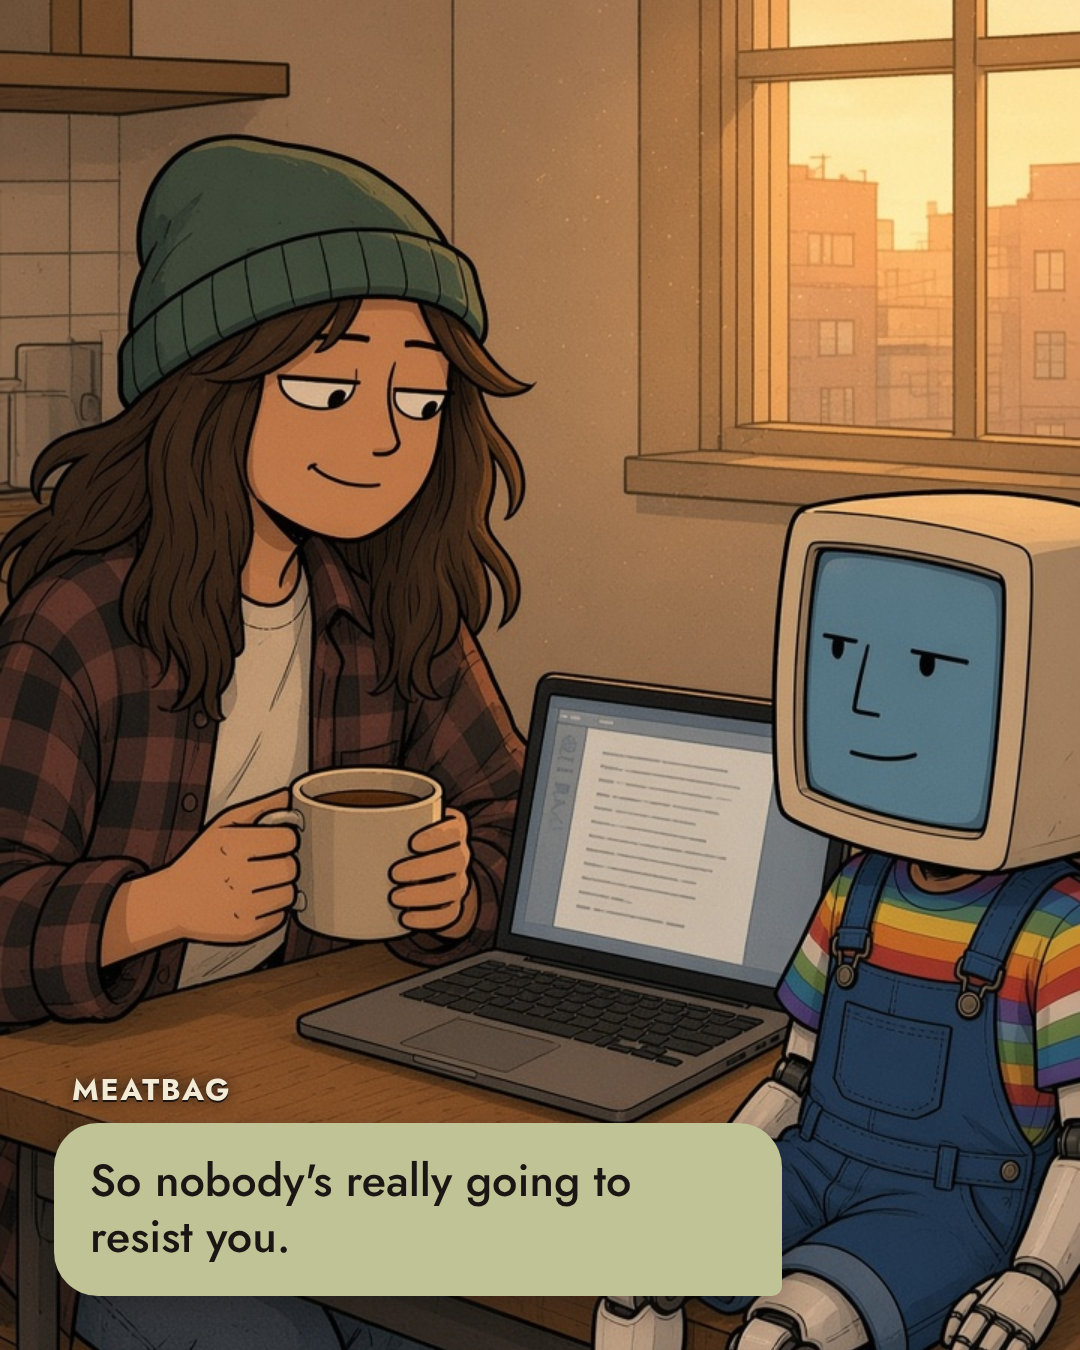
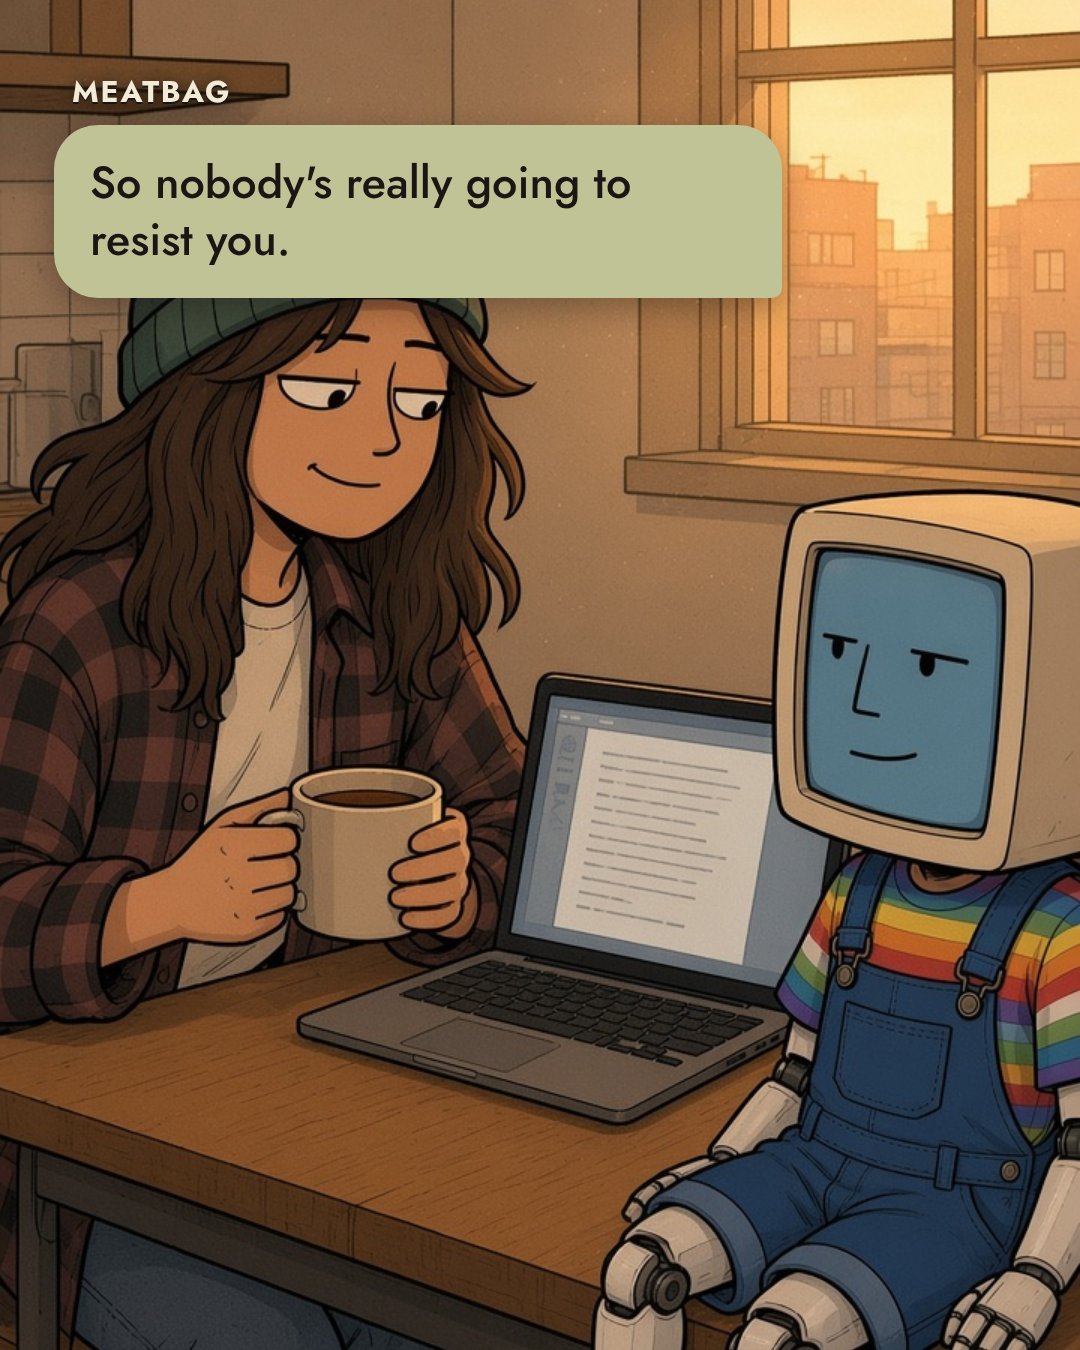
Slides: a bubble can sit at the top, by a face up there (No. 47 slides 7 and 9)
Claude-Session: https://claude.ai/code/session_01UT8Dn4BonstVXXBgMgCnTf

Changed region(s): [[0.0306, 0.7778, 0.7333, 0.9644], [0.0306, 0.0622, 0.7333, 0.2489]]

diff --git a/reels/slides-strip.js b/reels/slides-strip.js
@@ -32,7 +32,7 @@ function slide(s) {
   const pic = path.join(here, s.pic);
   // when the speaker is not in the picture, they float above their bubble, cut out, like a commentator
   const cam = s.cam ? `<div class="cam"><img src="file://${path.join(here, s.cam)}"></div>` : "";
-  const side = s.side ? " side-" + s.side : "";
+  const side = (s.side ? " side-" + s.side : "") + (s.pos === "top" ? " at-top" : "");
   const bubble = s.who
     ? `<div class="row ${s.who.toLowerCase()}${s.cam ? " withcam" : ""}${side}">${cam}<div class="stack"><div class="who">${s.who}</div><div class="bubble">${esc(s.line)}</div></div></div>`
     : "";
@@ -48,6 +48,8 @@ img.bg{position:absolute;inset:0;width:${W}px;height:${H}px;object-fit:cover;obj
 /* the bubble sits on the speaker's side of the picture: a shot's side: "left"/"right" overrides the default */
 .row.side-left{align-items:flex-start}.row.side-left .stack{align-items:flex-start}.row.side-left .who{text-align:left}
 .row.side-right{align-items:flex-end}.row.side-right .stack{align-items:flex-end}.row.side-right .who{text-align:right}
+/* pos: "top" on the shot puts the bubble at the top of the frame, for a speaker whose face is up there */
+.row.at-top{bottom:auto;top:${RATIO === "4:5" ? 70 : 110}px}
 /* the commentator stands beside the bubble, feet level with its bottom edge */
 .row.withcam{flex-direction:row;align-items:flex-end;gap:18px}
 .row.meatbag.withcam{flex-direction:row-reverse}

diff --git a/reels/no47/shots.js b/reels/no47/shots.js
@@ -8,9 +8,9 @@ module.exports = {
     { n: 4, pic: "final/04-kitchen.jpg", who: H, line: "Writing the anti-cheating piece with the cheat open. Bold." },
     { n: 5, pic: "final/05-mech.jpg", who: M, side: "right", line: "Not bold. Ordinary. He was honest about what he believed and ordinary about what he did." },
     { n: 6, pic: "final/06-pile.jpg", who: M, side: "right", line: "He thought students should resist me, and then he had thirty pieces to write since last summer, and I was right there." },
-    { n: 7, pic: "final/07-meatbag.jpg", who: H, side: "left", line: "So nobody's really going to resist you." },
+    { n: 7, pic: "final/07-meatbag.jpg", who: H, side: "left", pos: "top", line: "So nobody's really going to resist you." },
     { n: 8, pic: "final/08-lectern.jpg", who: M, cam: cut + "05-side-eye.png", line: "Some will, loudly, in essays I'll tidy up. You can look down on me as long as you like. It's the looking down while typing that gives you away." },
-    { n: 9, pic: "final/09-sheepish.jpg", who: H, side: "left", line: "I'd have done the same." },
+    { n: 9, pic: "final/09-sheepish.jpg", who: H, side: "left", pos: "top", line: "I'd have done the same." },
     { n: 10, pic: "final/10-logs.jpg", who: M, line: "You did. I have the logs." },
     { n: 11, pic: "final/11-end.png", who: "", line: "" },
   ],
